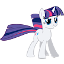
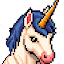
Замена спрайта единорогов, иконок, действий. Включение smooth у текстур в движке. Убирание пони из текстов. Добавление в движке загрузки спрайта из sf::Image.

diff --git a/UnicornExpansion/UnicornExpansion/scenes/SceneGame.cpp b/UnicornExpansion/UnicornExpansion/scenes/SceneGame.cpp
@@ -227,7 +227,7 @@ void SceneGame::Render(sf::RenderTarget & rendertarget) {
             if (spr_units.count(game.getUnit(i).getCode()) > 0) {
                 bool movleft = game.getUnit(i).isUnitRotatedLeft();
                 std::string sprcode = game.getUnit(i).getCode();
-                if (game.getUnit(i).isComponent<ComponentMachine>()) {
+                if (game.getUnit(i).isComponent<ComponentMovable>()) {
                     std::string dirsuff = "";
                     if (game.getUnit(i).getLastMoving() == Moving::Up) dirsuff = "_t";
                     if ((game.getUnit(i).getLastMoving() == Moving::LeftUp) ||
@@ -322,7 +322,7 @@ void SceneGame::Render(sf::RenderTarget & rendertarget) {
     minimap.drawTo(&rendertarget);
 
     textback.setPosition({ 6, 6 });
-    textback.setSize({ 120, 50 });
+    textback.setSize({ 130, 50 });
     rendertarget.draw(textback);
 
     // Информация по ресурсам и танкам
@@ -784,13 +784,29 @@ void SceneGame::Init() {
         spr_icons[str]->setScale({ 48.0f / spr_units[str]->getTexture().getSize().x, 48.0f / spr_units[str]->getTexture().getSize().y });
     }
 
-    // Догрузка машин по направлениям
-    std::vector<std::string> dirsuff = { "machine_t", "machine_b", "machine_rb", "machine_rt"};
-    for (auto& str : dirsuff) {
-        spr_units[str] = loadSprite("images/units/" + str + ".png");
-        spr_units[str]->setOrigin({ spr_units[str]->getTexture().getSize().x / 2.0f,
-            spr_units[str]->getTexture().getSize().y / 2.0f });
-    }
+    // Догрузка единорогов по направлениям (вынести в процедуру)
+    sf::Image source;
+    source.loadFromFile("images/unicorn.png");
+
+    const int unitsize = 64;
+    spr_units["unicorn"] = loadSprite(source, 0, 0, unitsize, unitsize);
+    spr_units["unicorn"]->setOrigin({ unitsize / 2 , unitsize / 2 });
+
+    spr_icons["unicorn"] = loadSprite(source, 0, 0, unitsize, unitsize);
+    spr_icons["unicorn"]->setOrigin({ unitsize / 2 , unitsize / 2 });
+    spr_icons["unicorn"]->setScale({ 64.0f / unitsize, 64.0f / unitsize });
+
+    spr_units["unicorn_b"] = loadSprite(source, 6 * unitsize, 0, unitsize, unitsize);
+    spr_units["unicorn_b"]->setOrigin({ unitsize / 2 , unitsize / 2 });
+
+    spr_units["unicorn_t"] = loadSprite(source, 2 * unitsize, 0, unitsize, unitsize);
+    spr_units["unicorn_t"]->setOrigin({ unitsize / 2 , unitsize / 2 });
+
+    spr_units["unicorn_rb"] = loadSprite(source, 7 * unitsize, 0, unitsize, unitsize);
+    spr_units["unicorn_rb"]->setOrigin({ unitsize / 2 , unitsize / 2 });
+
+    spr_units["unicorn_rt"] = loadSprite(source, 1 * unitsize, 0, unitsize, unitsize);
+    spr_units["unicorn_rt"]->setOrigin({ unitsize / 2 , unitsize / 2 });
 
     // Используется загрузка каталога в целом, можно вынести как процедуру
     pathload = "images/actions/";

diff --git a/libs/SfmlGameEngine/src/Scene.cpp b/libs/SfmlGameEngine/src/Scene.cpp
@@ -30,6 +30,15 @@ Engine* Scene::getEngine() const
 UniqueSprite Scene::loadSprite(const std::string& filename)
 {
 	textures.push_back(std::make_unique<sf::Texture>(getEngine()->getLanguages().getFileNameByLangIfExist(filename)));
+	textures.back()->setSmooth(true);
+	return std::make_unique<sf::Sprite>(*textures.back());
+}
+
+UniqueSprite Scene::loadSprite(const sf::Image& img, int x, int y, int w, int h)
+{
+	textures.push_back(std::make_unique<sf::Texture>());
+	textures.back()->loadFromImage(img, false, { { x, y }, { w, h } });
+	textures.back()->setSmooth(true);
 	return std::make_unique<sf::Sprite>(*textures.back());
 }
 

diff --git a/libs/SfmlGameEngine/include/SfmlGameEngine/Scene.h b/libs/SfmlGameEngine/include/SfmlGameEngine/Scene.h
@@ -29,6 +29,7 @@ protected:
     std::shared_ptr<Profile> getProfile() const;
     // Загрузка ресурсов игры с автоудалением потом их текстур и буферов
     UniqueSprite loadSprite(const std::string& filename);
+    UniqueSprite loadSprite(const sf::Image& source, int x, int y, int w, int h);
     UniqueSound loadSound(const std::string& filename);
     std::unique_ptr<sf::SoundBuffer> loadSoundBuffer(const std::string& filename);
     UniqueText loadText(int size);
